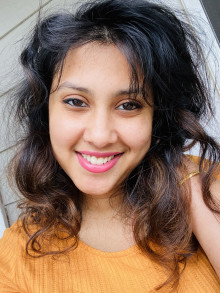
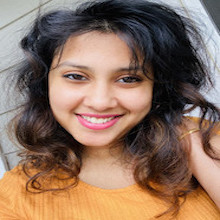
Fixed images sizes

diff --git a/index.html b/index.html
@@ -29,8 +29,6 @@ body, html {
 
 .member {
   width: 100%;
-  height: 225px;
-  max-height: 225px;
 }
 
 #title {
